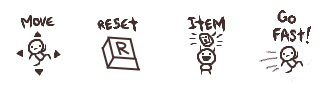
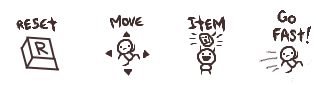
v0.15.2

diff --git a/src/main.js b/src/main.js
@@ -256,14 +256,7 @@ function registerKeyboardHotkeys() {
         log.warn('Alt+B hotkey registration failed.');
     }
 
-    const hotkeyIsaacFocus = globalShortcut.register('Alt+1', () => {
-        if (process.platform === 'win32') { // This will return "win32" even on 64-bit Windows
-            const pathToFocusIsaac = path.join(__dirname, 'programs', 'focusIsaac', 'focusIsaac.exe');
-            execFile(pathToFocusIsaac, (error, stdout, stderr) => {
-                // We have to attach an empty callback to this or it does not work for some reason
-            });
-        }
-    });
+    const hotkeyIsaacFocus = globalShortcut.register('Alt+1', isaacFocus);
     if (!hotkeyIsaacFocus) {
         log.warn('Alt+1 hotkey registration failed.');
     }
@@ -294,6 +287,15 @@ function registerKeyboardHotkeys() {
     });
     if (!hotkeyQuit) {
         log.warn('Alt+Q hotkey registration failed.');
+    }
+}
+
+function isaacFocus() {
+    if (process.platform === 'win32') { // This will return "win32" even on 64-bit Windows
+        const pathToFocusIsaac = path.join(__dirname, 'programs', 'focusIsaac', 'focusIsaac.exe');
+        execFile(pathToFocusIsaac, (error, stdout, stderr) => {
+            // We have to attach an empty callback to this or it does not work for some reason
+        });
     }
 }
 
@@ -527,6 +529,8 @@ ipcMain.on('asynchronous-message', (event, arg1, arg2) => {
         autoUpdater.quitAndInstall();
     } else if (arg1 === 'devTools') {
         mainWindow.webContents.openDevTools();
+    } else if (arg1 === 'isaacFocus') {
+        isaacFocus();
     } else if (arg1 === 'error') {
         errorHappened = true;
     } else if (arg1 === 'steam' && childProcesses.steam === null) {

diff --git a/src/js/ui/race.js b/src/js/ui/race.js
@@ -4,6 +4,7 @@
 
 // Imports
 const { execFile } = nodeRequire('child_process');
+const { ipcRenderer } = nodeRequire('electron');
 const path = nodeRequire('path');
 const globals = nodeRequire('./js/globals');
 const misc = nodeRequire('./js/misc');
@@ -841,6 +842,11 @@ const countdownTick = (i) => {
         }, 1000);
     } else {
         return;
+    }
+
+    // If one second is left, automatically focus the game
+    if (i === 1) {
+        ipcRenderer.send('asynchronous-message', 'isaacFocus');
     }
 
     // Update the Lua mod with how many seconds are left until the race starts

diff --git a/HISTORY.md b/HISTORY.md
@@ -1,5 +1,12 @@
 # Racing+ Version History and News
 
+### *v0.15.2* - February 14th
+
+* If it is not already, the game will now automatically be focused during the countdown at 1 second left. (Thanks 
+* Fixed the bug where the starting item was not being reported correctly. (Thanks PassionDrama and meepmeep13)
+* Fixed the bug where killing a Heart of Infamy caused the Mask of Infamy to fade. (Thanks Blumpkin Idaho and BMZ_Loop)
+* Changed the ordering of the starting room graphic. (Thanks 910dan)
+
 ### *v0.15.1* - February 13th
 
 * All bosses are now faded upon playing their death animation. (This is more consistent than the previous implementation.)
